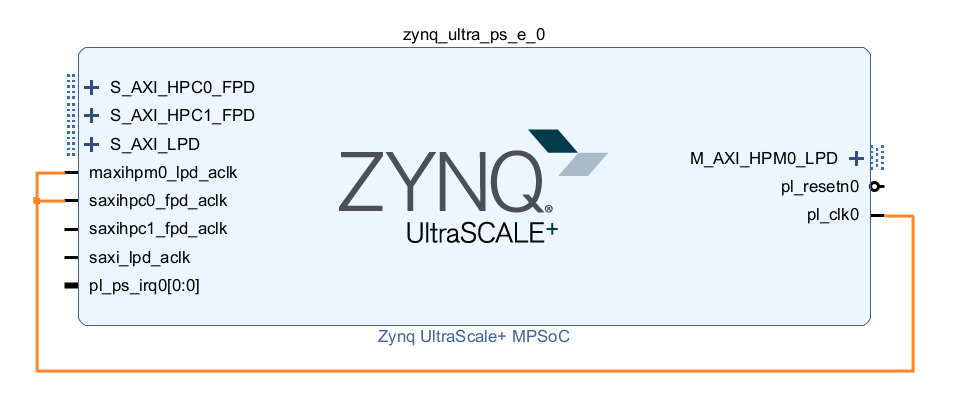
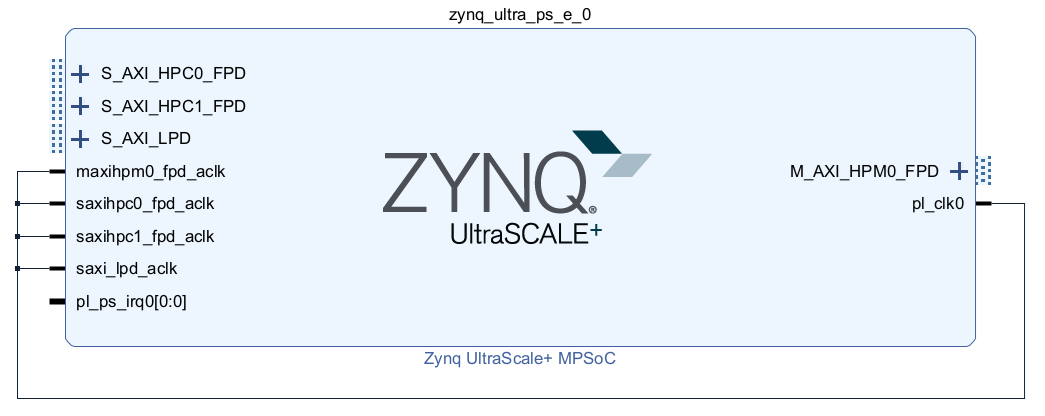
Corrected few mistakes

diff --git a/src/tutorials/antelope/zero_to_hero/enable_pl_support.rst b/src/tutorials/antelope/zero_to_hero/enable_pl_support.rst
@@ -34,9 +34,9 @@ Prerequisites
 
 Enable programmable logic support :tutorial-machine:`Vivado`
 ------------------------------------------------------------
-1. Open Antelope DPU project from :doc:`/tutorials/antelope/zero_to_hero/minimalist_vivado_project` in Vivado
-2. Use :menuselection:`Open Block Design` option to open ``top_bd`` block design
-3. Customize Zynq UltraScale+ block by double-clicking on it
+#. Open Antelope DPU project from :doc:`/tutorials/antelope/zero_to_hero/minimalist_vivado_project` in Vivado
+#. Use :menuselection:`Open Block Design` option to open ``top_bd`` block design
+#. Customize Zynq UltraScale+ block by double-clicking on it
 
    * Enable PL to PS interrupts ``IRQ0[0-7]``
    * Enable PS-PL Master interface ``AXI HPM0 FPD``
@@ -52,23 +52,27 @@ Enable programmable logic support :tutorial-machine:`Vivado`
 
      * Enable ``PL0`` and set it to 100MHz
 
+#. In ``top_bd`` block design connect:
 
-3. In ``top_bd`` block design connect ``maxihpm0_fpd_aclk`` to ``pl0_clk``
-4. In ``top_bd`` block design connect ``saxihpc0_fpd_aclk`` to ``pl0_clk``
-5. At this point block design should contain single IP block with single connection
+   * ``maxihpm0_fpd_aclk`` to ``pl0_clk``
+   * ``saxihpc0_fpd_aclk`` to ``pl0_clk``
+   * ``saxihpc1_fpd_aclk`` to ``pl0_clk``
+   * ``saxi_lpd_aclk`` to ``pl0_clk``
+
+#. At this point block design should contain single IP block with single connection
 
    .. figure:: ./enable_pl_support/pl_support_enabled.png
       :align: center
 
       Block design with Zynq UltraScale+ IP block configured to support Programmable Logic
 
-6. Open customization of Zynq UltraScale+ IP block and export preset by selecting  :menuselection:`Presets --> Save configuration`
+#. Open customization of Zynq UltraScale+ IP block and export preset by selecting  :menuselection:`Presets --> Save configuration`
 
    * Use ``antelope-minimalistic-with-pl`` as preset name
    * Save to ``antelope-minimalistic-with-pl.tcl`` file
 
-7. Generate bitstream
-8. Export hardware without bitstream. Use ``antelope-minimalistic-pl-base.xsa`` for output file name.
+#. Generate bitstream
+#. Export hardware without bitstream. Use ``antelope-minimalistic-pl-base.xsa`` for output file name.
 
 .. note:: Selected Zynq UltraScale+ configuration covers needs of programmable logic content in this tutorial and next ones.
 
@@ -90,7 +94,13 @@ Create double UART bitstream :tutorial-machine:`Vivado`
 
    1. Apply previously exported preset by selecting :menuselection:`Presets --> Apply configuration` and select :file:`antelope-minimalistic-with-pl.tcl` file.
 
-5. In ``double_uart_bd`` block design connect ``maxihpm0_fpd_aclk`` to ``pl0_clk``.
+5. In ``double_uart_bd`` block design connect
+
+   * ``maxihpm0_fpd_aclk`` to ``pl0_clk``
+   * ``saxihpc0_fpd_aclk`` to ``pl0_clk``
+   * ``saxihpc1_fpd_aclk`` to ``pl0_clk``
+   * ``saxi_lpd_aclk`` to ``pl0_clk``
+
 6. Place two AXI Uartlite IPs on block design
 7. Cross-connect UARTs by connecting ``axu_uartlite1`` TX to ``axu_uartlite0`` RX and vice versa.
 8. Click ``Run connection automation`` and let Vivado instantiate necessary interconnects and resets.
@@ -105,7 +115,7 @@ Create double UART bitstream :tutorial-machine:`Vivado`
 
        Block design with double UARTs connected together and available to Processing System
 
-14. In Sources view select :menuselection:`Design Sources --> double_uart_bd` and click :menuselection:`Create HDL Wrapper`` in context menu. Use :menuselection:`Let Vivado manage wrapper and auto-update` option.
+14. In Sources view select :menuselection:`Design Sources --> double_uart_bd` and click :menuselection:`Create HDL Wrapper` in context menu. Use :menuselection:`Let Vivado manage wrapper and auto-update` option.
 15. Generate bitstream
 16. Export hardware including bitstream to file ``antelope-double-uart.xsa``
 
@@ -168,7 +178,7 @@ Add double UART bitstream to Linux distribution :tutorial-machine:`Yocto`
 
    .. code-block:: shell-session
 
-        machine:~/antelope-linux-1$ mkdir ./egse-host-transfer
+        machine:~/antelope-linux-1$ mkdir -p ./egse-host-transfer
         machine:~/antelope-linux-1$ cp build/tmp/deploy/images/antelope/bootbins/boot-firmware.bin ./egse-host-transfer/
         machine:~/antelope-linux-1$ cp build/tmp/deploy/images/antelope/u-boot-scripts/boot-script-pins/boot-pins.scr ./egse-host-transfer/
         machine:~/antelope-linux-1$ cp build/tmp/deploy/images/antelope/system.dtb ./egse-host-transfer/
@@ -192,27 +202,27 @@ Loading double UART bitstream on DPU :tutorial-machine:`EGSE Host`
        -rw-rw-r-- 1 customer customer  16M Jul 10 11:14 core-image-minimal-antelope.rootfs.cpio.gz.u-boot
        -rw-rw-r-- 1 customer customer  37K Jul 10 11:14 system.dtb
 
-   .. note:: Exact file size might differ a bit but they should be in the same range (for example ``core-image-minimal-antelope.rootfs.cpio.gz.u-boot`` shall be about ~20MB)
+   .. note:: Exact file size might differ a bit but they should be in the same range (for example ``core-image-minimal-antelope.rootfs.cpio.gz.u-boot`` shall be about ~16MB)
 
 2. Power on Antelope
 
    .. code-block:: shell-session
 
-       customer@egse-367mwbwfg5wy2:~$ sml power on
+       customer@egse-host:~$ sml power on
        Powering on...Success
 
 3. Power on DPU
 
    .. code-block:: shell-session
 
-       customer@egse-367mwbwfg5wy2:~$ sml dpu power on
+       customer@egse-host:~$ sml dpu power on
        Powering on...Success
 
 4. Write boot firmware to DPU boot flash
 
    .. code-block:: shell-session
 
-       customer@egse-367mwbwfg5wy2:~$ sml dpu boot-flash write 0 /var/tftp/tutorial/boot-firmware.bin
+       customer@egse-host:~$ sml dpu boot-flash write 0 /var/tftp/tutorial/boot-firmware.bin
        Uploading   ━━━━━━━━━━━━━━━━━━━━━━━━━━━━━━━━━━━━━━━━ 100% 0:00:00 43.1 MB/s
        Erasing     ━━━━━━━━━━━━━━━━━━━━━━━━━━━━━━━━━━━━━━━━ 100% 0:00:00 383.9 kB/s
        Programming ━━━━━━━━━━━━━━━━━━━━━━━━━━━━━━━━━━━━━━━━ 100% 0:00:00 13.1 kB/s
@@ -221,7 +231,7 @@ Loading double UART bitstream on DPU :tutorial-machine:`EGSE Host`
 
    .. code-block:: shell-session
 
-       customer@egse-367mwbwfg5wy2:~$ sml dpu boot-flash write 0x4E0000 /var/tftp/tutorial/boot-pins.scr
+       customer@egse-host:~$ sml dpu boot-flash write 0x4E0000 /var/tftp/tutorial/boot-pins.scr
        Uploading   ━━━━━━━━━━━━━━━━━━━━━━━━━━━━━━━━━━━━━━━━ 100% 0:00:00 ?
        Erasing     ━━━━━━━━━━━━━━━━━━━━━━━━━━━━━━━━━━━━━━━━ 100% 0:00:00 ?
        Programming ━━━━━━━━━━━━━━━━━━━━━━━━━━━━━━━━━━━━━━━━ 100% 0:00:00 63.9 MB/s

diff --git a/src/tutorials/antelope/zero_to_hero/dpu.rst b/src/tutorials/antelope/zero_to_hero/dpu.rst
@@ -54,7 +54,7 @@ Create bitstream with Deep-learning Processor Unit :tutorial-machine:`Vivado`
    1. Apply previously exported preset by selecting :menuselection:`Presets --> Apply configuration` and select :file:`antelope-minimalistic-with-pl.tcl` file.
    2. :menuselection:`PS-PL Configuration --> PS-PL Interfaces --> Master Interface AXI HPM0 FPD`: Set Data Width to 32.
 
-#. Add "Processor System Reset" IP block to block design. In Block properties name it :menuselection:`rst_gen_pl_clk0`.
+#. Add "Processor System Reset" IP block to block design. In Block properties name it ``rst_gen_pl_clk0``.
 #. Connect :menuselection:`rst_gen_pl_clk0` IP block inputs:
 
    1. Connect ``slowest_sync_clk`` to ``pl_clk0`` output port of Zynq UltraScale+ MPSoC IP block.
@@ -85,13 +85,13 @@ Create bitstream with Deep-learning Processor Unit :tutorial-machine:`Vivado`
    1. Connect ``clk_in1`` to ``pl_clk0`` output port of Zynq UltraScale+ MPSoC IP block.
    2. Connect ``resetn`` to ``peripheral_aresetn[0:0]`` output port of :menuselection:`rst_gen_pl_clk0` IP block.
 
-#. Add another "Processor System Reset" IP block to block design. In Block properties name it rst_gen_2x_dpu_clk.
+#. Add another "Processor System Reset" IP block to block design. In Block properties name it ``rst_gen_2x_dpu_clk``.
 #. Connect :menuselection:`rst_gen_2x_dpu_clk` IP block inputs:
 
    1. Connect ``slowest_sync_clk`` to ``clk_2x_dpu`` output port of Clocking Wizard IP block.
    2. Connect ``ext_reset_in`` to ``peripheral_aresetn[0:0]`` output port of :menuselection:`rst_gen_pl_clk0` IP block.
 
-#. Add another "Processor System Reset" IP block to block design. In Block properties name it rst_gen_dpu_clk.
+#. Add another "Processor System Reset" IP block to block design. In Block properties name it ``rst_gen_dpu_clk``.
 #. Connect :menuselection:`rst_gen_dpu_clk` IP block inputs:
 
    1. Connect ``slowest_sync_clk`` to ``clk_dpu`` output port of Clocking Wizard IP block.
@@ -134,7 +134,7 @@ Create bitstream with Deep-learning Processor Unit :tutorial-machine:`Vivado`
 
       Block design with Deep-learning Processor Unit
 
-#. In Sources view select :menuselection:`Design Sources --> dpu_bd` and click :menuselection:`Create HDL Wrapper`` in context menu. Use :menuselection:`Let Vivado manage wrapper and auto-update` option.
+#. In Sources view select :menuselection:`Design Sources --> dpu_bd` and click :menuselection:`Create HDL Wrapper` in context menu. Use :menuselection:`Let Vivado manage wrapper and auto-update` option.
 #. Generate bitstream
 
    .. warning:: Compared to previous tutorials, generating bitstream might take significantly longer time.
@@ -212,7 +212,7 @@ Add Deep-learning Processor Unit bitstream to Linux image :tutorial-machine:`Yoc
 
    .. code-block:: bitbake
 
-      FILESEXTRAPATHS_prepend := "${THISDIR}/${PN}:"
+      FILESEXTRAPATHS:prepend := "${THISDIR}/${PN}:"
 
       SRC_URI += "file://xlnx-dpu.cfg"
 
@@ -304,7 +304,7 @@ Run model on Deep-learning Processor Unit :tutorial-machine:`EGSE Host`
 
        customer@egse-host:~$ minicom -D /dev/sml/antelope-dpu-uart
 
-    Leave this terminal open and get back to SSH connection used in previous steps.
+   Leave this terminal open and get back to SSH connection used in previous steps.
 
 9. Release DPU from reset
 

diff --git a/src/tutorials/antelope/zero_to_hero/minimalist_linux_distro.rst b/src/tutorials/antelope/zero_to_hero/minimalist_linux_distro.rst
@@ -28,7 +28,7 @@ Prerequisites
 
   * ``libtinfo5`` (required by Xilinx layers)
   * Yocto requirements (https://docs.yoctoproject.org/ref-manual/system-requirements.html#required-packages-for-the-build-host)
-* At least 60GB free space for Yocto build
+* At least 120GB free space for Yocto build
 
 Create project :tutorial-machine:`Yocto`
 ----------------------------------------
@@ -121,7 +121,7 @@ Add layers :tutorial-machine:`Yocto`
 
    .. code-block:: shell-session
 
-       machine:~/antelope-linux-1/build$ bitbake-layers add-layer ../sources/meta-kp-classes/meta-kp-classes/
+       machine:~/antelope-linux-1/build$ bitbake-layers add-layer ../sources/meta-kp-classes/
        machine:~/antelope-linux-1/build$ bitbake-layers add-layer ../sources/meta-kp-antelope
 
 Create layer for customizations :tutorial-machine:`Yocto`
@@ -157,7 +157,7 @@ Create layer for customizations :tutorial-machine:`Yocto`
        ~/antelope-linux-1/sources/meta-xilinx/meta-xilinx-bsp \
        ~/antelope-linux-1/sources/meta-xilinx/meta-xilinx-standalone \
        ~/antelope-linux-1/sources/meta-xilinx-tools \
-       ~/antelope-linux-1/sources/meta-kp-classes/meta-kp-classes \
+       ~/antelope-linux-1/sources/meta-kp-classes \
        ~/antelope-linux-1/sources/meta-kp-antelope \
        ~/antelope-linux-1/sources/meta-local \
        "
@@ -179,7 +179,7 @@ Configure project :tutorial-machine:`Yocto`
        machine:~/antelope-linux-1/build$ recipetool newappend --wildcard-version ../sources/meta-local/ external-hdf
 
 3. Create directory :file:`~/antelope-linux-1/sources/meta-local/recipes-bsp/hdf/external-hdf` and copy :file:`top_bd_wrapper.xsa` to it.
-4. Edit recipe append :file:`~/antelope-linux-1/sources/meta-local/recipes-bsp/hdf/external-hdf.bb` and set path XSA file
+4. Edit recipe append :file:`~/antelope-linux-1/sources/meta-local/recipes-bsp/hdf/external-hdf_%.bbappend` and set path to XSA file
 
    .. code-block:: bitbake
 

diff --git a/src/tutorials/antelope/zero_to_hero/minimalist_vivado_project.rst b/src/tutorials/antelope/zero_to_hero/minimalist_vivado_project.rst
@@ -74,7 +74,7 @@ Create project :tutorial-machine:`Vivado`
       * :menuselection:`General --> Fabric Reset Enable`: Disable
       * :menuselection:`PS-PL Interfaces --> Master Interface`: Disable all interfaces
 
-5. In Sources view select :menuselection:`Design Sources --> top_bd` and click :menuselection:`Create HDL Wrapper`` in context menu. Use :menuselection:`Let Vivado manage wrapper and auto-update` option.
+5. In Sources view select :menuselection:`Design Sources --> top_bd` and click :menuselection:`Create HDL Wrapper` in context menu. Use :menuselection:`Let Vivado manage wrapper and auto-update` option.
 6. Click 'Generate Bitstream' in Flow Navigator to finalize design and generate outputs.
 7. Export hardware by clicking :menuselection:`File --> Export --> Export Hardware`. Don't include bitstream. Save exported ``.xsa`` file in known place for next tutorials.
 

diff --git a/src/tutorials/leopard/zero_to_hero/minimalist_vivado_project.rst b/src/tutorials/leopard/zero_to_hero/minimalist_vivado_project.rst
@@ -83,7 +83,7 @@ Create project :tutorial-machine:`Vivado`
       * :menuselection:`General --> Fabric Reset Enable`: Disable
       * :menuselection:`PS-PL Interfaces --> Master Interface`: Disable all interfaces
 
-5. In Sources view select :menuselection:`Design Sources --> top_bd` and click :menuselection:`Create HDL Wrapper`` in context menu. Use :menuselection:`Let Vivado manage wrapper and auto-update` option.
+5. In Sources view select :menuselection:`Design Sources --> top_bd` and click :menuselection:`Create HDL Wrapper` in context menu. Use :menuselection:`Let Vivado manage wrapper and auto-update` option.
 6. Click 'Generate Bitstream' in Flow Navigator to finalize design and generate outputs.
 7. Export hardware by clicking :menuselection:`File --> Export --> Export Hardware`. Don't include bitstream. Save exported ``.xsa`` file in known place for next tutorials.
 

diff --git a/src/tutorials/leopard/zero_to_hero/minimalist_linux_distro.rst b/src/tutorials/leopard/zero_to_hero/minimalist_linux_distro.rst
@@ -28,7 +28,7 @@ Prerequisites
 
   * ``libtinfo5`` (required by Xilinx layers)
   * Yocto requirements (https://docs.yoctoproject.org/ref-manual/system-requirements.html#required-packages-for-the-build-host)
-* At least 60GB free space for Yocto build
+* At least 120GB free space for Yocto build
 
 Create project :tutorial-machine:`Yocto`
 ----------------------------------------
